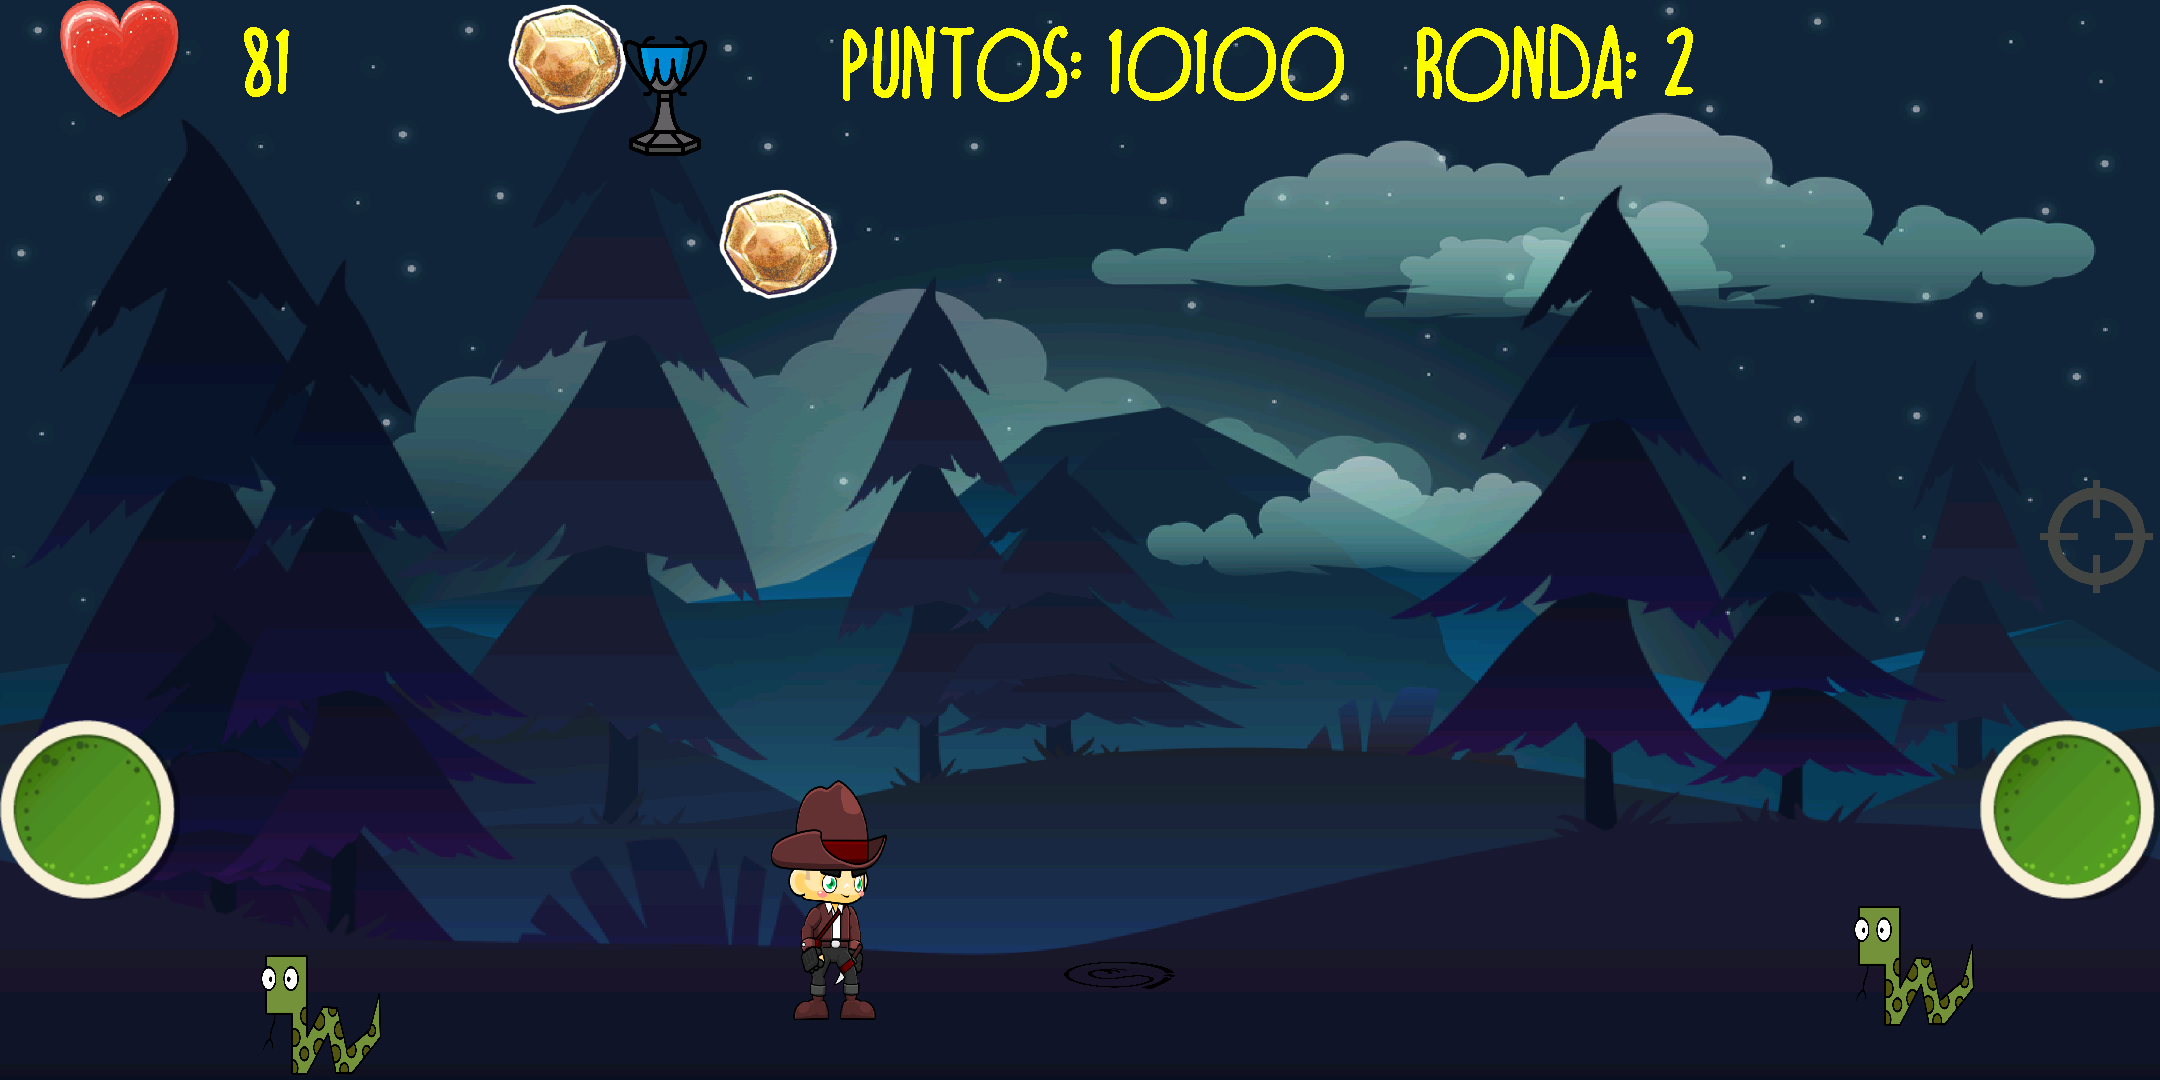
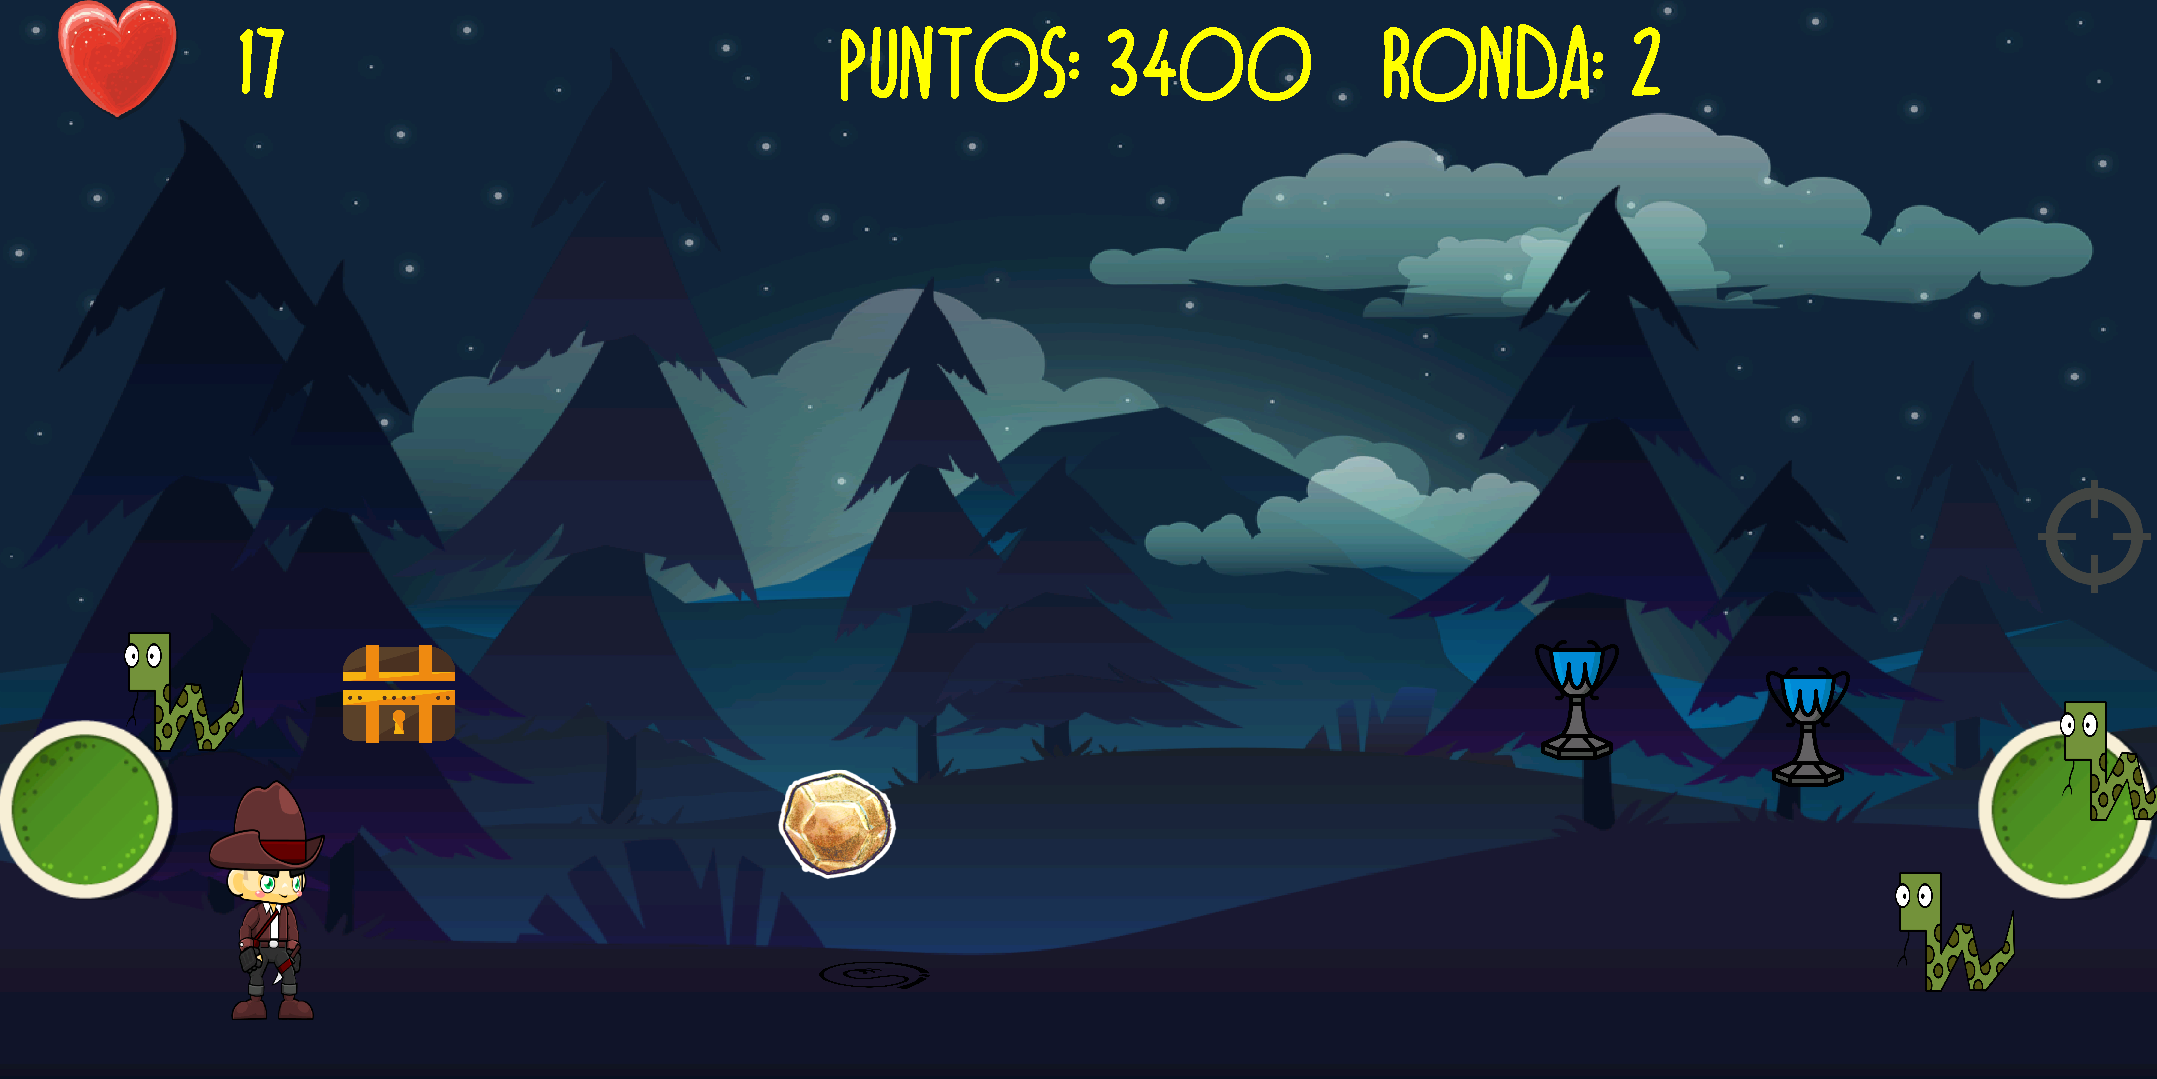
Ayuda terminada

diff --git a/app/src/main/java/com/example/workspace/myapplication/Ayuda.java b/app/src/main/java/com/example/workspace/myapplication/Ayuda.java
@@ -15,12 +15,17 @@ public class Ayuda extends Escena {
 
     Context context;
 
-    int anchoPantalla, altoPantalla;
-    int proporcionAncho, proporcionAlto;
+    private int anchoPantalla, altoPantalla;
+    private int proporcionAncho, proporcionAlto;
+    private int contador = 0;
 
-    Bitmap fondoTutorial;
+    Bitmap fondoTutorial, btnNext, btnBack;
 
     String strAyuda;
+
+    Rect rectNext, rectBack;
+
+    String ayudaIzq, ayudaDer, ayudaLatigo, ayudaPuntos, ayudaVidasTotales, ayudaRondaActual, ayudaVidas, ayudaPierdeVidas, strLatigo;
 
     public Ayuda(Context context, int idEscena, int anchoPantalla, int altoPantalla) {
         super(context, idEscena, anchoPantalla, altoPantalla);
@@ -42,10 +47,28 @@ public class Ayuda extends Escena {
         volverMenu = BitmapFactory.decodeResource(context.getResources(), R.drawable.close2);
         volverMenu = Bitmap.createScaledBitmap(volverMenu, proporcionAncho * 2, proporcionAlto * 2, false);
 
+        btnNext = utils.getBitmapFromAssets("varios/next.png");
+        btnNext = Bitmap.createScaledBitmap(btnNext, proporcionAncho * 2, proporcionAlto * 2, false);
+
+        btnBack = utils.getBitmapFromAssets("varios/back.png");
+        btnBack = Bitmap.createScaledBitmap(btnBack, proporcionAncho * 2, proporcionAlto * 2, false);
         // Rects
         rectVolverMenu = new Rect(0, 0, proporcionAncho * 2, proporcionAlto * 2);
-
+        rectNext = new Rect(anchoPantalla - proporcionAncho * 2, 0, anchoPantalla, proporcionAlto * 2);
+        rectBack = new Rect(proporcionAncho * 13, 0, proporcionAncho * 15, proporcionAlto * 2);
         strAyuda = context.getString(R.string.ayuda);
+
+//        ayudaIzq, ayudaDer, ayudaLatigo, ayudaVidasTotales, ayudaRondaActual, ayudaVidas, ayudaPierdeVidas;
+        ayudaIzq = context.getString(R.string.ayudaizq);
+        ayudaDer = context.getString(R.string.ayudader);
+        ayudaLatigo = context.getString(R.string.ayudalatigo);
+        ayudaVidasTotales = context.getString(R.string.ayudavidastotales);
+        ayudaRondaActual = context.getString(R.string.ayudaronda);
+        ayudaVidas = context.getString(R.string.ayudavidas);
+        ayudaPierdeVidas = context.getString(R.string.ayudapierdevidas);
+        ayudaPuntos = context.getString(R.string.ayudapuntos);
+        strLatigo = context.getString(R.string.latigo);
+
     }
 
     /**
@@ -64,14 +87,37 @@ public class Ayuda extends Escena {
             super.dibujar(c);
             c.drawBitmap(bitmapFondo, 0, 0, null);
             fondoNubes.dibujar(c);
-            c.drawBitmap(volverMenu, 0, proporcionAlto * 0, null);
             c.drawBitmap(fondoTutorial, proporcionAncho * 2, proporcionAlto * 2, null);
+            c.drawBitmap(volverMenu, 0, proporcionAlto * 0, null);
+            c.drawBitmap(btnNext, anchoPantalla - proporcionAncho * 2, proporcionAlto * 0, null);
+            c.drawBitmap(btnBack, proporcionAncho * 13, 0, null);
 
             paintTexto.setColor(Color.YELLOW); //
-            paintTexto.setTextSize(50); //
             paintTexto.setTypeface(faw);//
-//            c.drawText(nombreOpciones + "", proporcionAncho * 4, proporcionAlto * 2, paintTexto); //
-            c.drawText(strAyuda, proporcionAncho * 2 + proporcionAncho / 3, proporcionAlto, paintTexto);
+
+            paintTexto.setTextSize(50); //
+            c.drawText(strAyuda, proporcionAncho * 2 + proporcionAncho / 3, proporcionAlto + proporcionAlto / 2, paintTexto);
+            paintTexto.setTextSize(30); //
+            if (contador == 0) {
+                c.drawText(ayudaVidasTotales, proporcionAncho * 2, proporcionAlto * 3, paintTexto);
+            } else if (contador == 1) {
+                c.drawText(ayudaIzq, proporcionAncho * 3 + proporcionAncho / 2, proporcionAlto * 7, paintTexto);
+            } else if (contador == 2) {
+                c.drawText(ayudaDer, proporcionAncho * 12, proporcionAlto * 7, paintTexto);
+            } else if (contador == 3) {
+                c.drawText(ayudaPuntos, proporcionAncho * 8, proporcionAlto * 3, paintTexto);
+            } else if (contador == 4) {
+                c.drawText(ayudaRondaActual, proporcionAncho * 12, proporcionAlto * 3, paintTexto);
+            } else if (contador == 5) {
+                c.drawText(ayudaLatigo, proporcionAncho * 8 + proporcionAncho / 2, altoPantalla / 2 + proporcionAlto, paintTexto);
+            } else if (contador == 6) {
+                c.drawText(strLatigo, anchoPantalla / 2, proporcionAlto * 8, paintTexto);
+            } else if (contador == 7) {
+                c.drawText(ayudaVidas, proporcionAncho * 5 + proporcionAncho / 2, proporcionAlto * 6, paintTexto);
+            } else if (contador == 8) {
+                c.drawText(ayudaPierdeVidas, proporcionAncho * 8, proporcionAlto * 6, paintTexto);
+            }
+
 
         } catch (NullPointerException e) {
             Log.d("Error", "Dibujado canvas Opciones");
@@ -94,6 +140,17 @@ public class Ayuda extends Escena {
             case MotionEvent.ACTION_POINTER_UP:
                 if (pulsa(rectVolverMenu, event)) {
                     return 0;
+                }
+                if (pulsa(rectNext, event)) {
+                    contador++;
+                    if (contador == 8) {
+                        contador = 0;
+                    }
+                }
+                if (pulsa(rectBack, event)) {
+                    if (contador != 0) {
+                        contador--;
+                    }
                 }
         }
         return idEscena;

diff --git a/app/src/main/java/com/example/workspace/myapplication/Game.java b/app/src/main/java/com/example/workspace/myapplication/Game.java
@@ -74,7 +74,7 @@ public class Game extends Escena implements Runnable {
         this.proporcionAlto = altoPantalla / 9;
 
         drYones = new DrYones(context, anchoPantalla / 2, altoPantalla, anchoPantalla, altoPantalla, 10); // le estas pone
-        caballero = new Caballero(context, anchoPantalla, altoPantalla / 2, 4, anchoPantalla, altoPantalla);
+//        caballero = new Caballero(context, anchoPantalla, altoPantalla - proporcionAlto * 3, 4, anchoPantalla, altoPantalla);
         latigo = new Latigo(context, drYones.getPosX(), drYones.getPosY() - drYones.getRun()[0].getHeight() / 2, anchoPantalla, altoPantalla);
 
         vibrator = (Vibrator) getContext().getSystemService(context.VIBRATOR_SERVICE);
@@ -179,7 +179,7 @@ public class Game extends Escena implements Runnable {
         }
 
         // Caballero
-        caballero.mover();
+//        caballero.mover();
 //        if (latigo.rectLatigo.intersect(caballero.rectPersonaje)) {
 //            caballeroHerido = true;
 //        } else {
@@ -249,27 +249,6 @@ public class Game extends Escena implements Runnable {
 //                fondoNubes.dibujar(c);
                 c.drawBitmap(heart, proporcionAncho / 2, 0, null);
 
-//                switch (vidas) {
-//                    case 0:
-//                        c.drawBitmap(lose, anchoPantalla / 2 - lose.getWidth(), altoPantalla / 2 - lose.getHeight(), null);
-//                        break;
-//                    case 1:
-//                        c.drawBitmap(listaNumeros[1], proporcionAncho, 0, null);
-//                        break;
-//                    case 2:
-//                        c.drawBitmap(listaNumeros[2], proporcionAncho, 0, null);
-//                        break;
-//                    case 3:
-//                        c.drawBitmap(listaNumeros[3], proporcionAncho, 0, null);
-//                        break;
-//                    case 4:
-//                        c.drawBitmap(listaNumeros[4], proporcionAncho, 0, null);
-//                        break;
-//                    case 5:
-//                        c.drawBitmap(listaNumeros[5], proporcionAncho, 0, null);
-//                        break;
-//                }
-
                 p.setColor(Color.GREEN);
 //                c.drawRect(rectBtnA, p);
 //                c.drawRect(rectBtnB, p);
@@ -287,7 +266,7 @@ public class Game extends Escena implements Runnable {
                 drYones.cambiaFrame();
                 drYones.dibuja(c);
 //                if (!caballeroHerido) {
-                caballero.dibujar(c);
+//                caballero.dibujar(c);
 //                }
 
                 for (Enemigo e : listaEnemigos) {

diff --git a/app/src/main/java/com/example/workspace/myapplication/Creditos.java b/app/src/main/java/com/example/workspace/myapplication/Creditos.java
@@ -21,7 +21,7 @@ public class Creditos extends Escena {
     int proporcionAncho, proporcionAlto;
 
     // Fuentes
-    String nombreProyecto, proyecto, nombre, hechoPor, nombreJuego, fuentesRecursos, strCreditos, strMusica;
+    String nombreProyecto, proyecto, nombre, hechoPor, nombreJuego, fuentesRecursos, strCreditos, strMusica, strFuente, strCreadoPor;
 
     public Creditos(Context context, int idEscena, int anchoPantalla, int altoPantalla) {
         super(context, idEscena, anchoPantalla, altoPantalla);
@@ -50,6 +50,8 @@ public class Creditos extends Escena {
         fuentesRecursos = context.getString(R.string.fuentes);
         strCreditos = context.getString(R.string.creditos);
         strMusica = context.getString(R.string.musica);
+        strFuente = context.getString(R.string.fuente);
+        strCreadoPor = context.getString(R.string.hechopor);
 //        fuentesRecursos;
     }
 
@@ -80,7 +82,8 @@ public class Creditos extends Escena {
         c.drawText(nombre + ": " + nombreJuego, proporcionAncho * 2, proporcionAlto * 3 + proporcionAlto / 2, p);
         c.drawText(hechoPor + ": Daniel Vázquez Rodríguez", proporcionAncho * 2, proporcionAlto * 4 + proporcionAlto / 2, p);
         c.drawText(fuentesRecursos + ": Icons Icons, game2Art, craftFix", proporcionAncho * 2, proporcionAlto * 5 + proporcionAlto / 2, p);
-        c.drawText(strMusica + ": ", proporcionAncho * 2, proporcionAlto * 6 + proporcionAlto / 2, p);
+        c.drawText(strMusica + ": SoundBible", proporcionAncho * 2, proporcionAlto * 6 + proporcionAlto / 2, p);
+        c.drawText(strFuente + " " + strCreadoPor + ": Darrell Flood", proporcionAncho * 2, proporcionAlto * 7 + proporcionAlto / 2, p);
 
     }
 

diff --git a/app/src/main/java/com/example/workspace/myapplication/Caballero.java b/app/src/main/java/com/example/workspace/myapplication/Caballero.java
@@ -54,9 +54,15 @@ public class Caballero extends Personaje {
     }
 
     public void dibujar(Canvas c) {
-        if (posX > 0 - frame.getWidth()) {
+        while (posX > 0 - frame.getWidth()) {
             c.drawBitmap(this.frame, posX, altoPantalla - proporcionY * 5, null);
         }
+        if (posX < 0 - frame.getWidth()) {
+            posX = anchoPantalla + frame.getWidth();
+        }
+//        if (posX > 0 - frame.getWidth()) {
+//            c.drawBitmap(this.frame, posX, altoPantalla - proporcionY * 5, null);
+//        }
     }
 
     public Bitmap espejo(Bitmap imagen, Boolean horizontal) {
